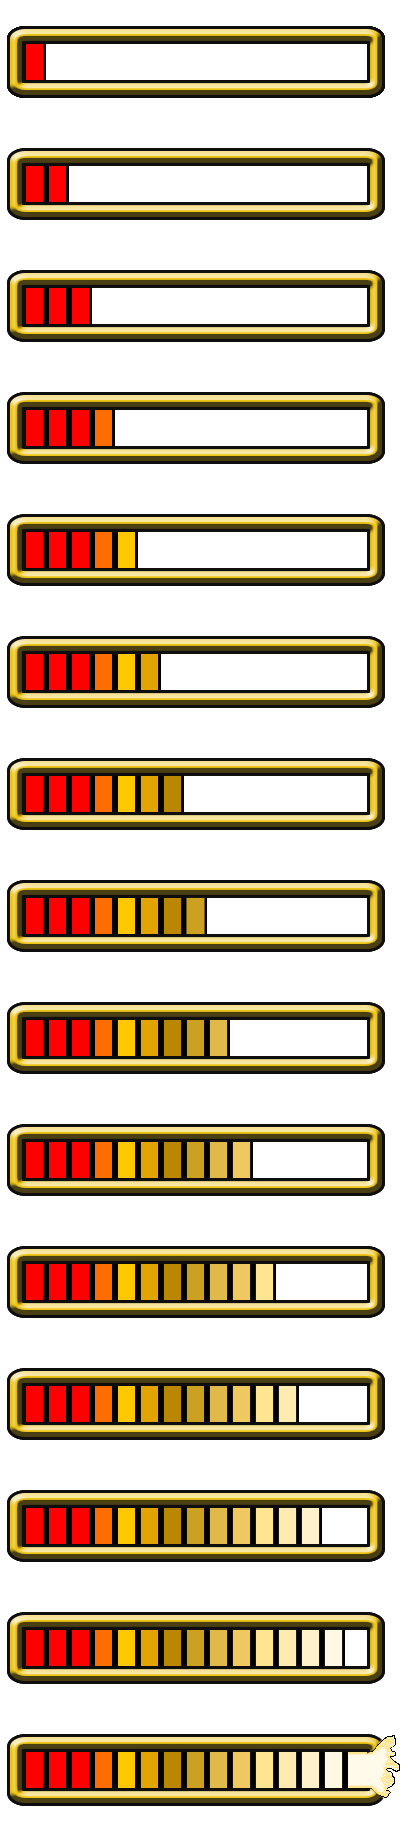
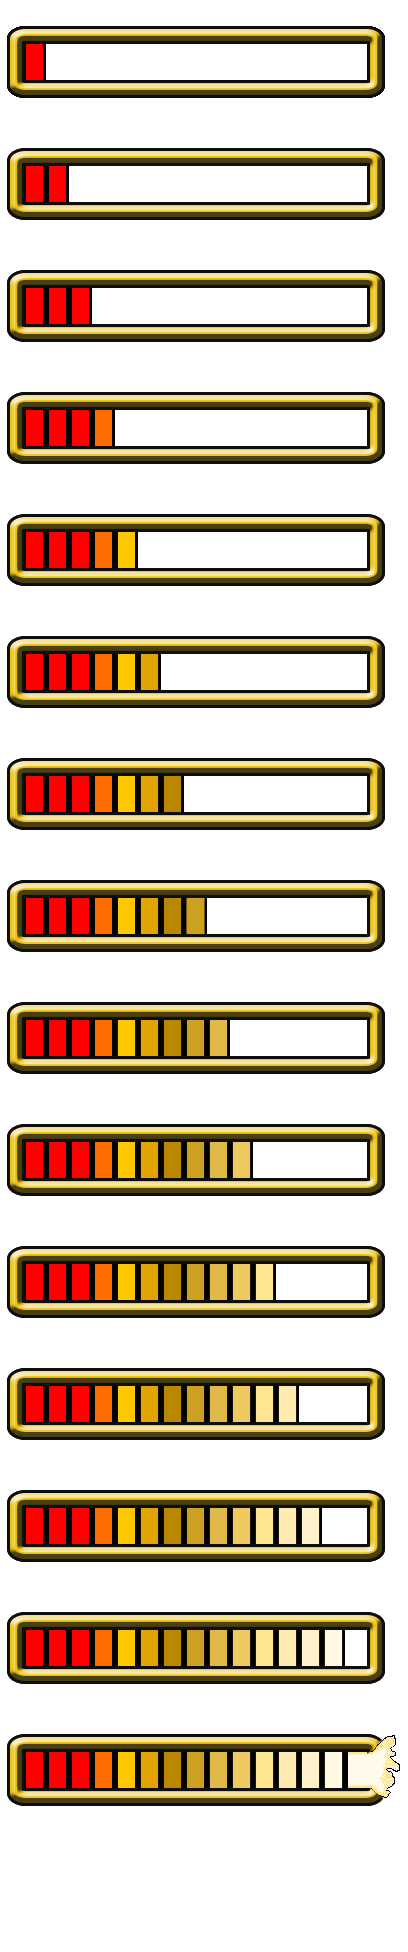
Jagger y calimocho added

diff --git a/game.js b/game.js
@@ -5,6 +5,8 @@ import Barra_Alcohol from './barra_alcohol.js';
 import Agua from './agua.js';
 import Cerveza from './cerveza.js';
 import Champan from './Champan.js';
+import Jagger from './jagger.js';
+import Calimocho from './calimocho.js';
 
 export default class Game extends Phaser.Scene 
 {
@@ -16,10 +18,11 @@ export default class Game extends Phaser.Scene
   preload() {
     this.load.image('fondo1', './sprites/background/fondo_tras_del_todo.png');
 
-    this.load.image('botellacalimocho', './sprites/items/calimocho.png');
+    this.load.image('calimocho', './sprites/items/calimocho.png');
     this.load.image('botella_agua', './sprites/items/waterbottle.png');
     this.load.image('cerveza', './sprites/items/mugofbeer.png');
     this.load.image('champan', './sprites/items/champancg.png');
+    this.load.image('jagger', './sprites/items/jagger.png');
 
     this.load.image('barril', './sprites/obstaculos/32x32/barril.png');
     this.load.image('caja', './sprites/obstaculos/32x32/caja.png');
@@ -32,7 +35,7 @@ export default class Game extends Phaser.Scene
     this.load.image('plataforma', './sprites/background/plataforma.png');
     
     this.load.atlas('alcohol_atlas', './barra_alcohol/barra_alcohol/alcohol.png', './barra_alcohol/barra_alcohol/alcohol_atlas.json');
-    this.load.spritesheet('alcoholsheet','./barra_alcohol/barra_alcohol/alcohol_anim.png', { frameWidth: 408, frameHeight: 122 });
+   // this.load.spritesheet('alcoholsheet','./barra_alcohol/barra_alcohol/alcohol_anim.png', { frameWidth: 408, frameHeight: 122 });
     this.load.spritesheet('corrersheet', './sprites/characters/spritesheetcorrer.png', { frameWidth: 161, frameHeight: 216 });
     this.load.spritesheet('agacharsesheet', './sprites/characters/spritesheetagacharse.png', { frameWidth: 218, frameHeight: 218 })
     this.load.spritesheet('guardiacorrersheet', './sprites/characters/guardiaspritesheetcorrer.png', { frameWidth: 161, frameHeight: 216 });
@@ -79,12 +82,12 @@ this.anims.create({
   frameRate: 6,
   repeat: 0
 }); 
-this.anims.create({
+/*this.anims.create({
   key: 'alcoholismo',
   frames: this.anims.generateFrameNumbers('alcoholsheet', { start:0, end: 14}),
   frameRate: 1,
   repeat: -1
-});
+});*/
 this.anims.create({
   key: 'guardiacorrer',
   frames: this.anims.generateFrameNumbers('guardiacorrersheet', { start:0, end: 5}),
@@ -165,6 +168,10 @@ this.anims.create({
    });
 
    this.champan = new Champan(this,700,530);
+   this.agua = new Agua(this, 5000,550);
+   this.calimocho = new Calimocho(this, 1000, 550);
+   this.cerveza = new Cerveza(this, 1100, 550);
+   this.jagger = new Jagger(this, 1200, 550);
 // ------------------------------------------------------------------
   };
 

diff --git a/barra_alcohol.js b/barra_alcohol.js
@@ -5,11 +5,12 @@ export default class Barra_Alcohol extends Phaser.GameObjects.Sprite
       this.setScale(0.50);
       this.images = this.scene.add.existing(this);
       this.ebriedad = 0;
-      this.max_alcohol = 150;
+      this.max_alcohol = 149;
       this.coma_etilico = false;
       this.cursors = this.scene.input.keyboard.createCursorKeys();
       this.alcohol_texture = this.scene.textures.get('alcohol_atlas');
       this.frames_alcohol = this.alcohol_texture.getFrameNames();
+      this.actualizar_barra = true;
       //this.images.setFrame(this.frames_alcohol[2]);
       //this.add.sprite(1000, 500, 'alcohol_atlas');
       /*this.anims.play('alcoholismo',true);
@@ -20,33 +21,22 @@ export default class Barra_Alcohol extends Phaser.GameObjects.Sprite
 
     aumentar_ebriedad(aumento){
         this.ebriedad += aumento;
-        this.scene.player.sube = true;
         if(this.ebriedad === this.max_alcohol){
             this.coma_etilico = true;
         }
     }
     reducir_ebriedad(reduccion){
-      this.scene.player.sube = false
         if(this.ebriedad > 0){
             this.ebriedad -= reduccion;
         }
     }
 
     preUpdate(t, d){  
-      this.ebriedad += 5;
-      this.cambio_frame = Math.floor(this.ebriedad/10);
-      this.images.setFrame(this.frames_alcohol[this.cambio_frame]);
-      
+      //this.ebriedad += 5;
+      if(this.actualizar_barra){
+        this.cambio_frame = Math.floor(this.ebriedad/10);
+        this.images.setFrame(this.frames_alcohol[this.cambio_frame]);
+      }
       console.log(this.ebriedad); 
-    }
-     cambio_frame(index_ref){
-      if((this.anims.currentFrame.index === index_ref) && this.scene.player.sube){
-        this.frame_buffer = this.anims.currentFrame.nextFrame;
-        this.anims.setCurrentFrame(this.frame_buffer);
-      }
-      else if((this.anims.currentFrame.index === (index_ref+2)) && !this.scene.player.sube){
-        this.frame_buffer = this.anims.currentFrame.prevFrame;
-        this.anims.setCurrentFrame(this.frame_buffer);
-      }
     }
 }

diff --git a/calimocho.js b/calimocho.js
@@ -1,0 +1,34 @@
+export default class Calimocho extends Phaser.GameObjects.Sprite 
+{
+    constructor(scene, x, y){
+        super(scene, x, y,'calimocho');
+        this.scene.add.existing(this);
+        this.delay_time = 2000;
+        //this.scene.physics.add.staticImage(x, y,'botella_agua');
+        this.scene.physics.add.existing(this, true);
+        this.setScale(0.05);
+        this.body.setSize(20, 65);
+        this.body.setOffset(155, 610);
+    }
+
+    preUpdate(t,d){
+        super.preUpdate(t, d);
+        
+        if(this.scene.physics.overlap(this, this.scene.player)){
+            this.barraalcohol_gone();
+        }
+    }
+    barraalcohol_gone(){
+        this.scene.alcohol.actualizar_barra = false;
+        this.scene.alcohol.images.setFrame(this.scene.alcohol.frames_alcohol[15]);
+        this.y = 3000;
+        this.body.setOffset(155, 1000);
+        this.timedEvent = this.scene.time.delayedCall(this.delay_time, this.onEvent, [], this);
+        console.log("calimocho");
+    }
+
+    onEvent(){
+        this.scene.alcohol.actualizar_barra = true;
+        this.destroy();
+    }
+}

diff --git a/jagger.js b/jagger.js
@@ -1,0 +1,25 @@
+export default class Jagger extends Phaser.GameObjects.Sprite 
+{
+    constructor(scene, x, y){
+        super(scene, x, y,'jagger');
+        this.scene.add.existing(this);
+        //this.scene.physics.add.staticImage(x, y,'botella_agua');
+        this.scene.physics.add.existing(this, true);
+        this.setScale(0.05);
+        this.body.setSize(25, 60);
+        this.body.setOffset(210, 540);
+    }
+
+    preUpdate(t,d){
+        super.preUpdate(t, d);
+        
+        if(this.scene.physics.overlap(this, this.scene.player)){
+            this.alcohol_maximo();
+        }
+    }
+    alcohol_maximo(){
+        this.scene.alcohol.aumentar_ebriedad(this.scene.alcohol.max_alcohol);
+        this.destroy();
+        console.log("jagger");
+    }
+}

diff --git a/cerveza.js b/cerveza.js
@@ -5,16 +5,16 @@ export default class Cerveza extends Phaser.GameObjects.Sprite
         this.scene.add.existing(this);
         //this.scene.physics.add.staticImage(x, y,'botella_agua');
         this.scene.physics.add.existing(this, true);
-        this.setScale(1.5);
+        //this.setScale(1.5);
     }
 
     preUpdate(t,d){
         super.preUpdate(t, d);
         
         if(this.scene.physics.overlap(this, this.scene.player)){
+            console.log("cerveza");
             this.scene.alcohol.aumentar_ebriedad(15);
             this.destroy();
-            console.log("cerveza");
         }
     }
 }

diff --git a/Player.js b/Player.js
@@ -19,7 +19,6 @@ export default class Player extends Personaje
     this.disminuyendoVelocidad = false;
     this.delay_input = 0;
     this.stAgachado = false;
-    this.sube = true;
 
     this.play('correr',true);
     this.body.setSize(150, 220);
